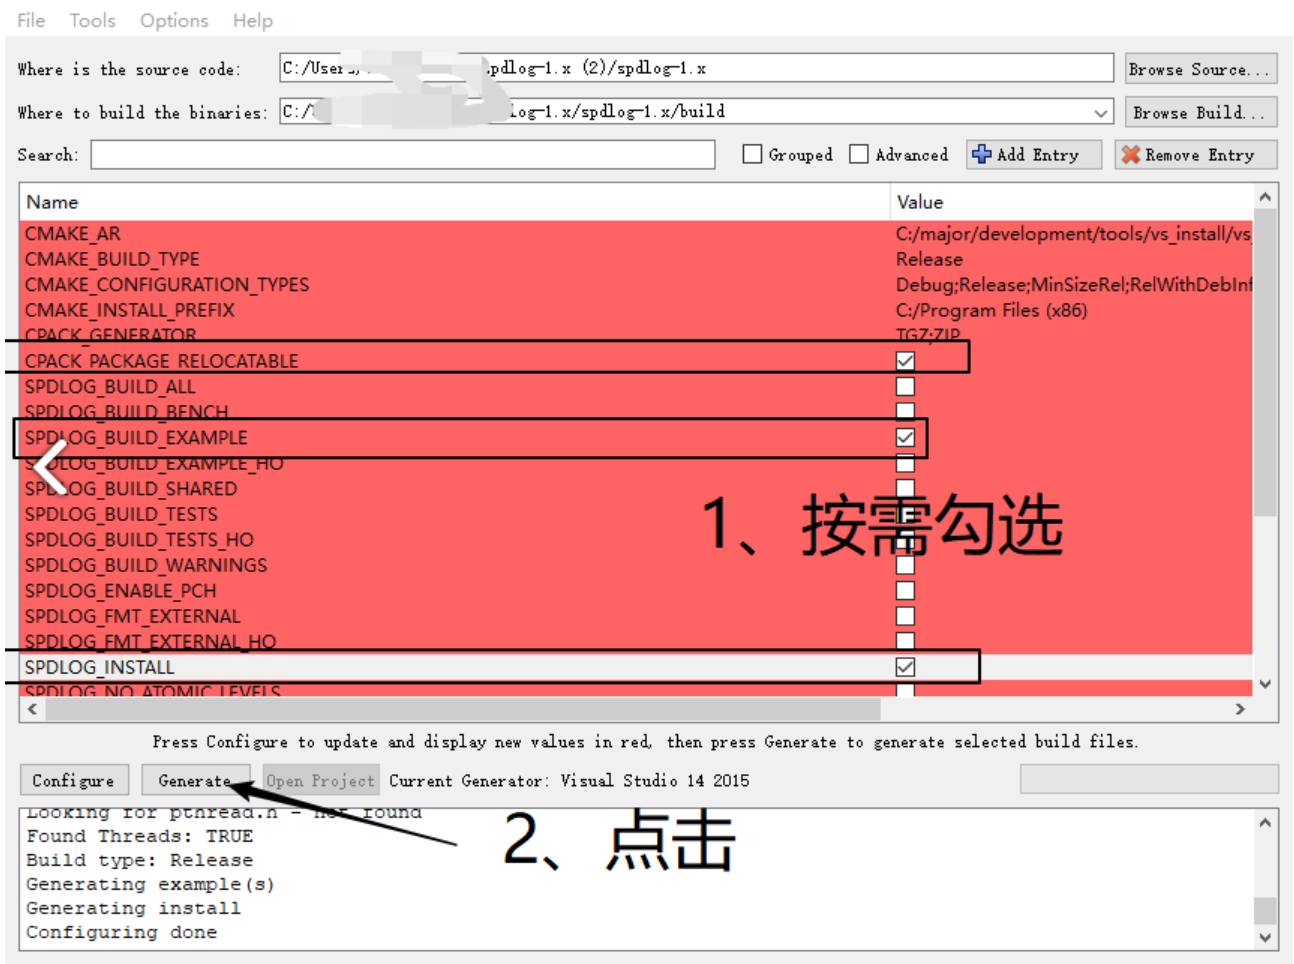
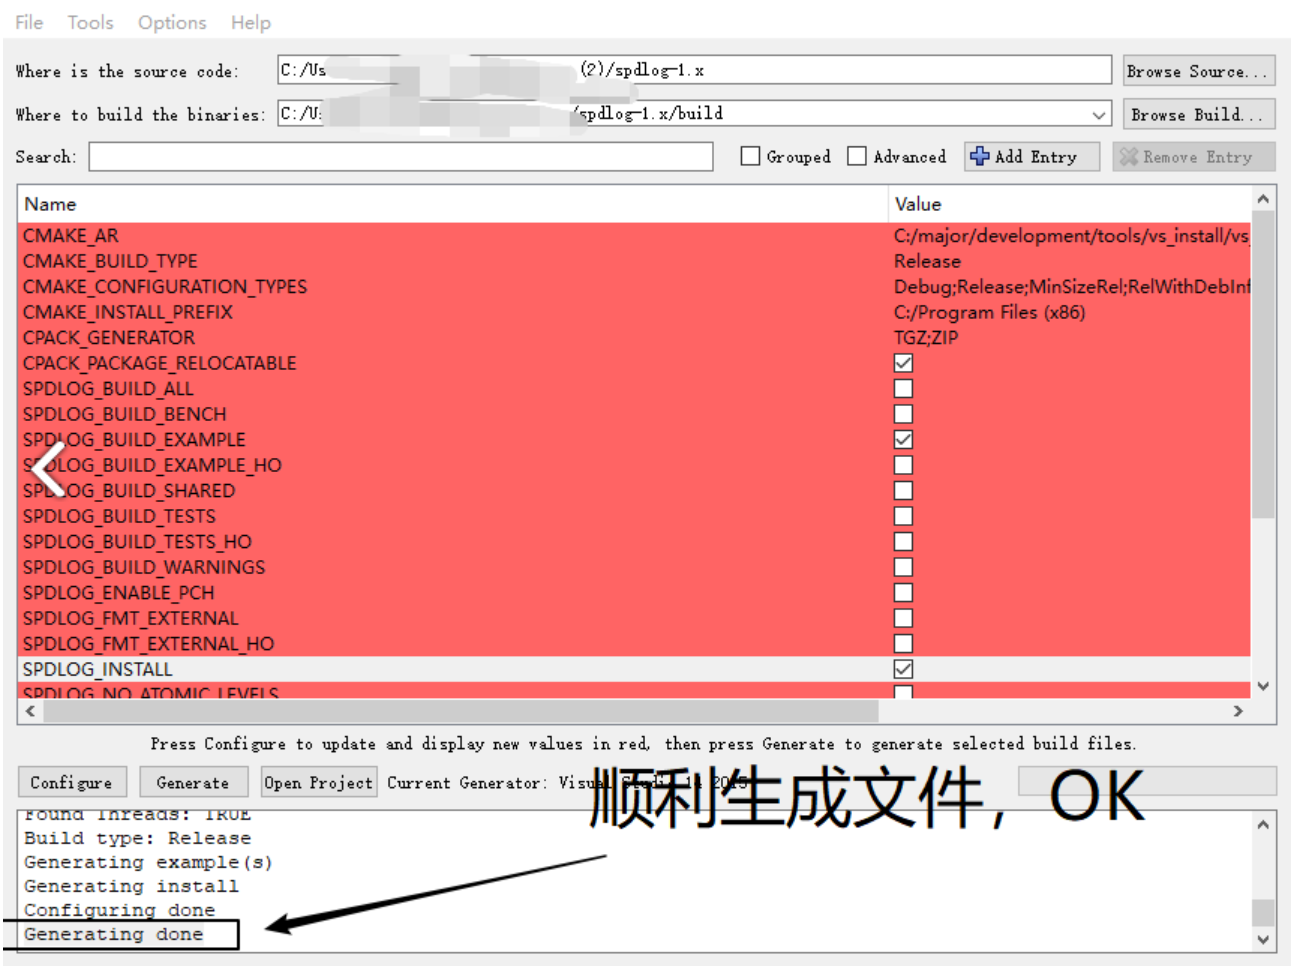
更新代码

diff --git a/main.cpp b/main.cpp
@@ -1,0 +1,7 @@
+#include <iostream>
+
+int main() {
+	std::cout << "hello world" << std::endl;
+
+	return 1;
+}

diff --git a/README.md b/README.md
@@ -1,8 +1,25 @@
 # spdlog_demo
 spdlog是一个开源、跨平台、无依赖、只有头文件的C++11日志库
 
-# spd源码下载地址
-https://github.com/gabime/spdlog
+# 源码下载地址
+spd源码:https://github.com/gabime/spdlog
+cmake gui:https://cmake.org/download/
 
+# 配置
+1.解压spdlog源码，并打开解压后的文件夹，新建build文件夹
+2.打开cmake，添加源码目录和输出目录，见下图：  
+![image] (https://github.com/coczhang/spdlog_demo/blob/main/image/spd_01.png)  
+3.点击cmake UI的configure，下面选择的是win32，点击finish  
+![image] (https://github.com/coczhang/spdlog_demo/blob/main/image/spd_02.png)  
+4.configure 完成后， 选择合适的工程， 再点击 generate生成对应的 工程文件。  
+![image] (https://github.com/coczhang/spdlog_demo/blob/main/image/spd_03.png)  
+5.生成成功， 至此， 配置到此结束，  
+![image] (https://github.com/coczhang/spdlog_demo/blob/main/image/spd_04.png)  
 
-
+# 方案
+1.打开 cmake的输出目录（我这里是在源码解压目录下build文件夹），（注意：请使用管理员方式打开VS201X ? 因为要将文件安装到指定的系统文件夹下，没有对应的权限，程序无法执行写入）打开解决方案 spdlog.sln （以实际生成的为准）：  
+![image] (https://github.com/coczhang/spdlog_demo/blob/main/image/spd_05.png)  
+2.选择 项目：ALL_BUILD, 右键选择生成。  
+3.待上一步生成结束后， 选择 项目： INSTALL， 右键生成。 可以观察到输出窗口中 将 spdlog文件安装到系统的具体目录。  
+![image] (https://github.com/coczhang/spdlog_demo/blob/main/image/spd_06.png)  
+安装结束后可以阅读源码目录下的example文件夹下的example.cpp, 总结其使用方法。
